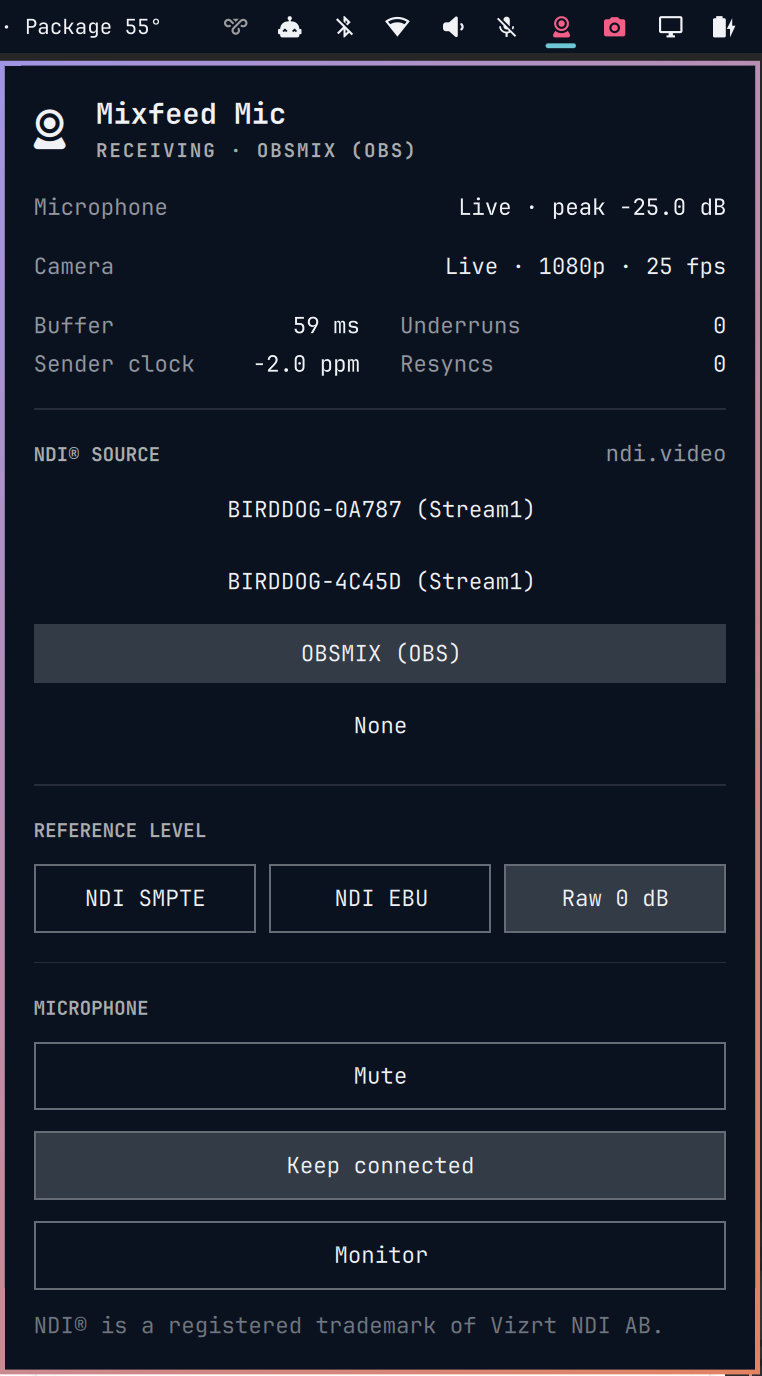
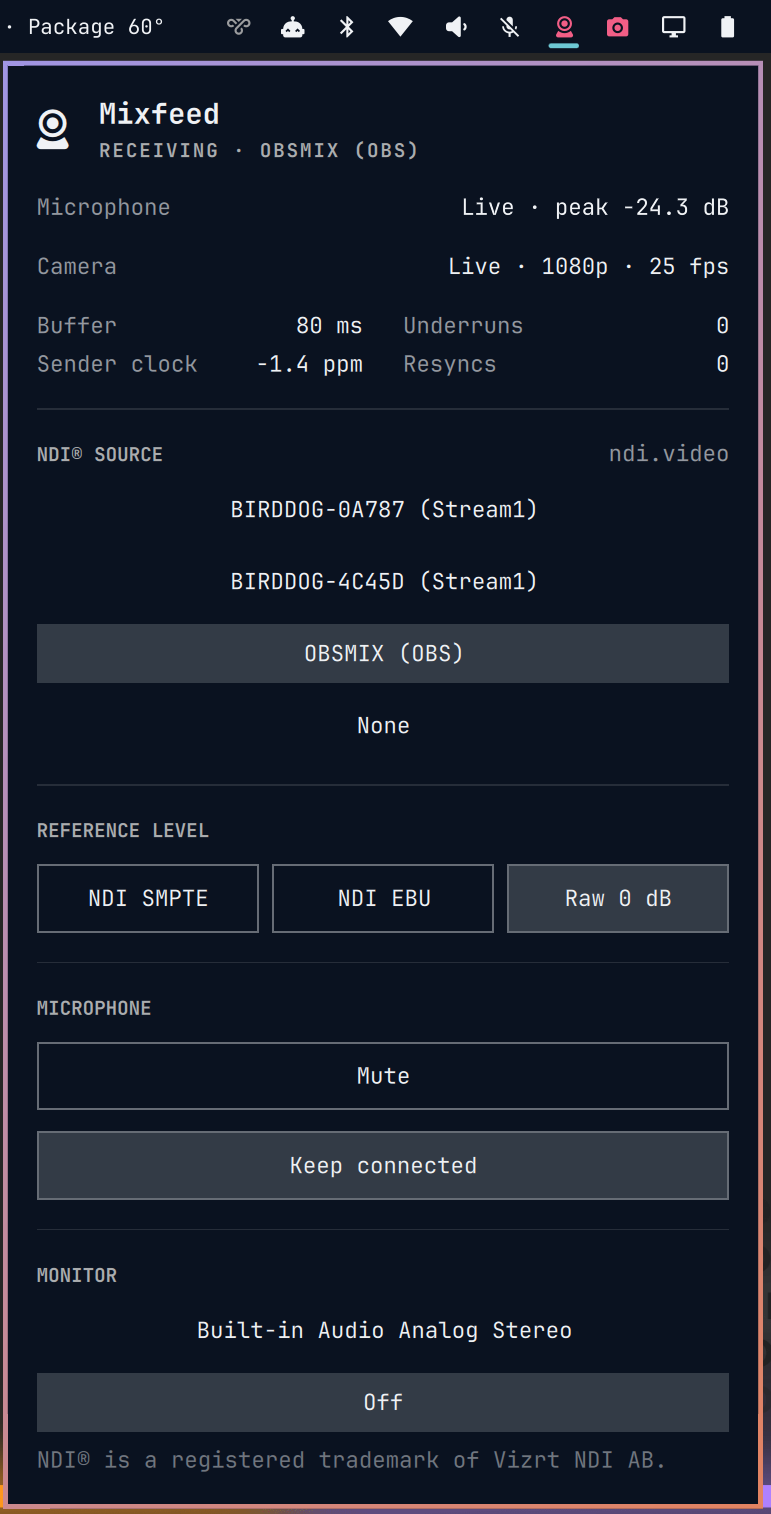
Mixfeed 0.1.3: describe what Mixfeed does, new screenshots

diff --git a/README.md b/README.md
@@ -1,6 +1,6 @@
 # Mixfeed
 
-Mixfeed receives an [NDI®](https://ndi.video/) source on Linux and gives it to your applications as a microphone and a webcam. Use it to bring the program output of a video mixer (for example OBS with DistroAV, vMix, a hardware mixer or an NDI converter) into a video call, a browser or a recording application.
+Mixfeed receives an [NDI®](https://ndi.video/) source on Linux and gives it to your applications as a virtual webcam and microphone. Use it to bring the program output of a video mixer (for example OBS with DistroAV, vMix, a hardware mixer or an NDI converter) into a video call, a browser or a recording application.
 
 Mixfeed runs as a small user service. A bar widget for Omarchy controls it.
 
@@ -68,12 +68,12 @@ Tested with: Omarchy 4.0 (Arch Linux, x86_64), PipeWire 1.6, NDI runtime 6.3, Ch
    sudo modprobe v4l2loopback
    ```
 
-4. Get Mixfeed release v0.1.2 (a fixed release, not the moving branch) and install it:
+4. Get Mixfeed release v0.1.3 (a fixed release, not the moving branch) and install it:
 
    ```sh
    git clone https://github.com/vpacher/mixfeed.git
    cd mixfeed
-   git checkout --detach v0.1.2
+   git checkout --detach v0.1.3
    linux/install.sh
    ```
 
